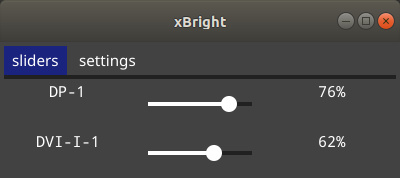
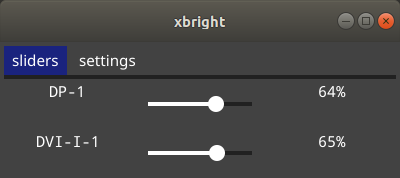
rename to all lowercase.

diff --git a/main.go b/main.go
@@ -26,7 +26,6 @@ type slideC struct {
 func (s *slideC) onChanged(val float64) {
 	if val != s.prev {
 		s.prev = val
-		s.l.Println(val)
 		val = val / 100
 		if val > 1 || val <= 0 {
 			return
@@ -55,7 +54,7 @@ func main() {
 		l.Println("couldn't load icon")
 	}
 	a.SetIcon(icon)
-	w := a.NewWindow("xBright")
+	w := a.NewWindow("xbright")
 	sliders, sCs := makeSliders(l, x)
 	s := settings{Path: defaultPath}
 	s.presets(defaultPath, l, sCs, x)
